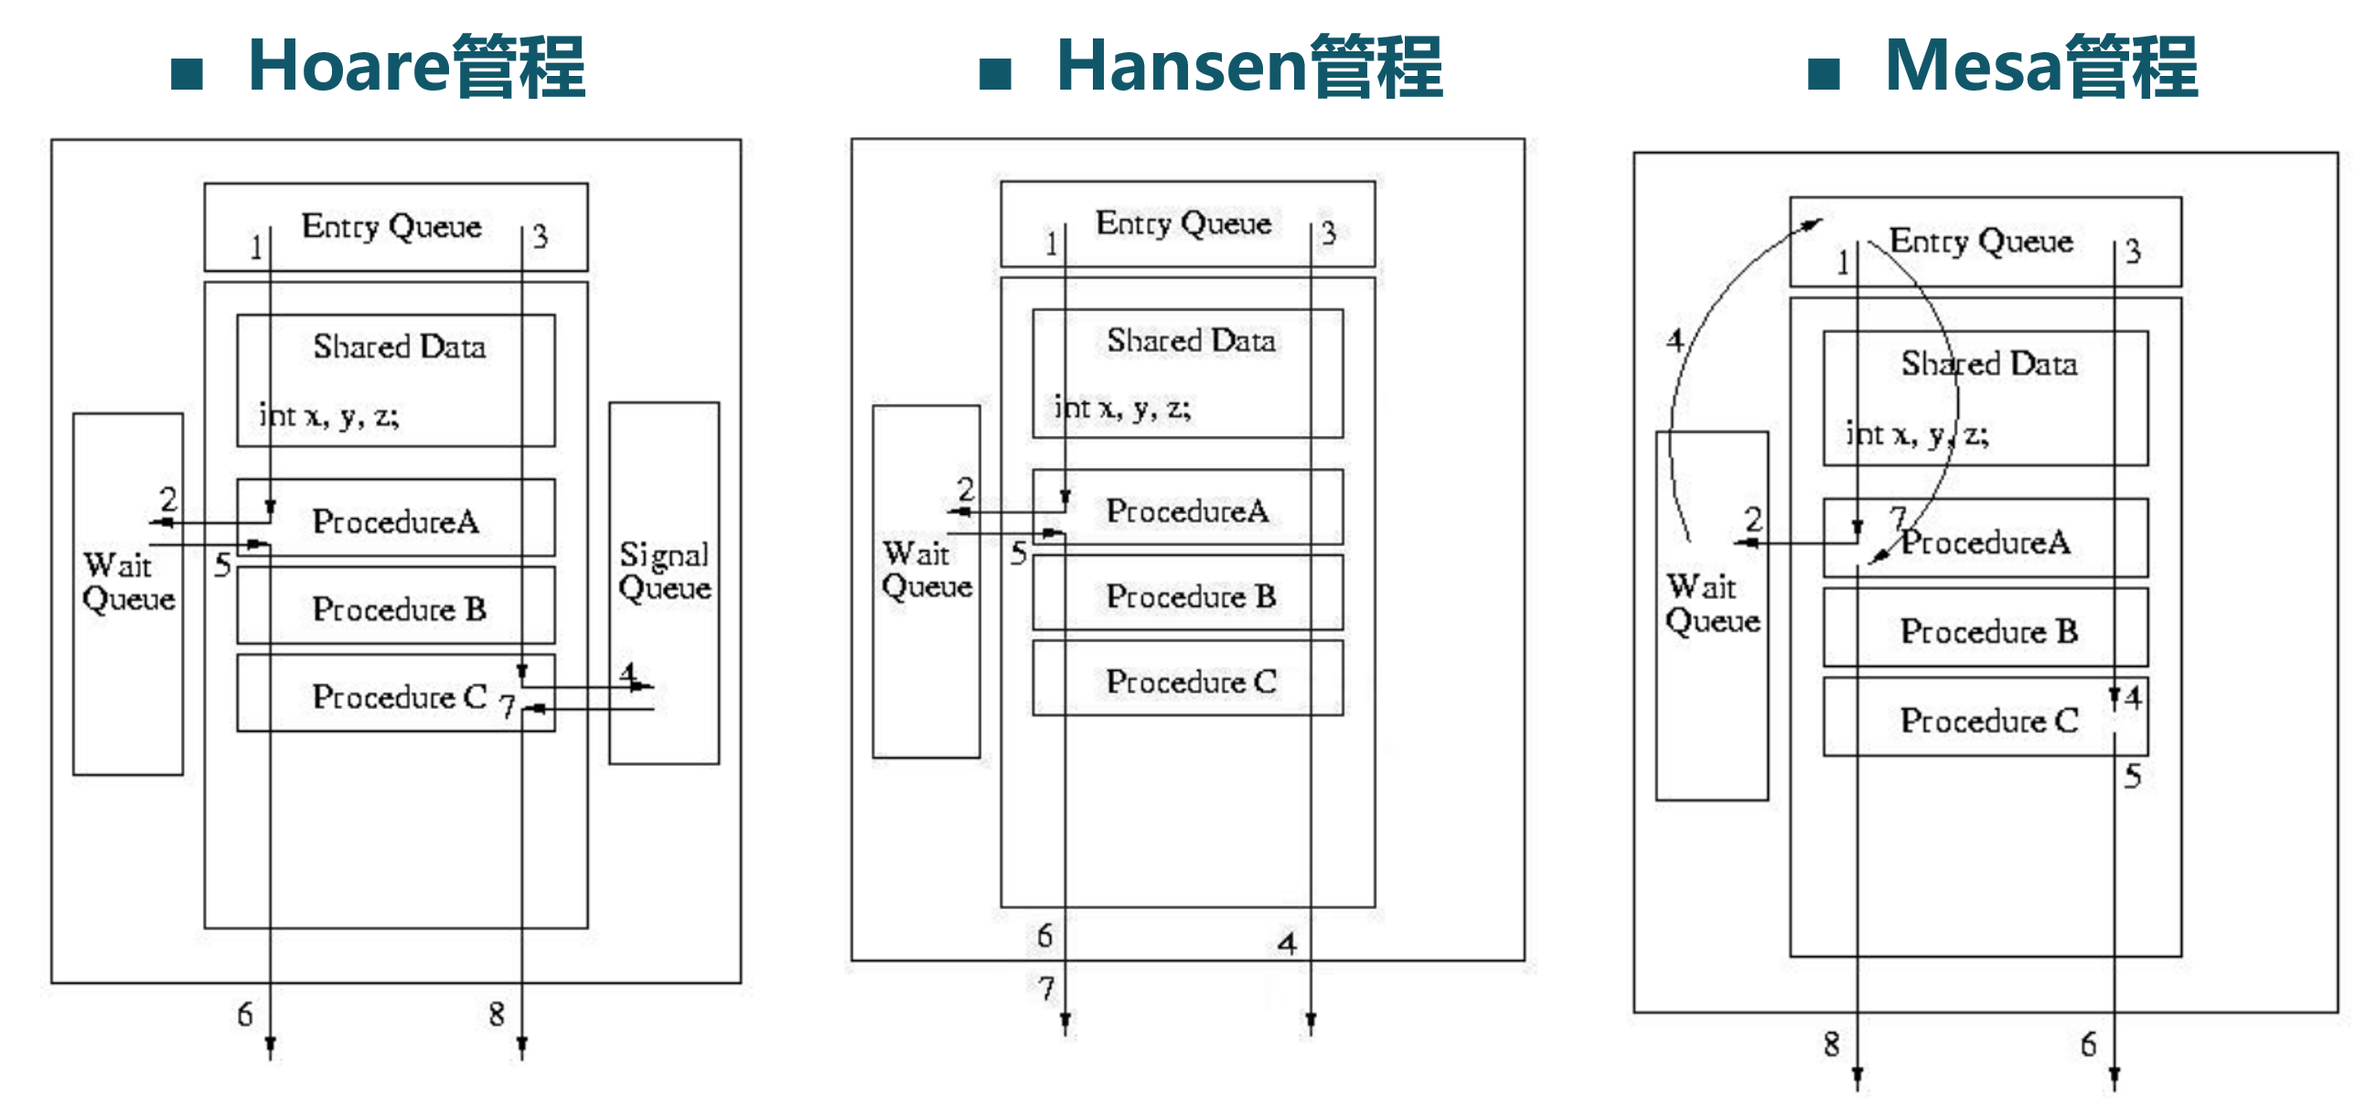
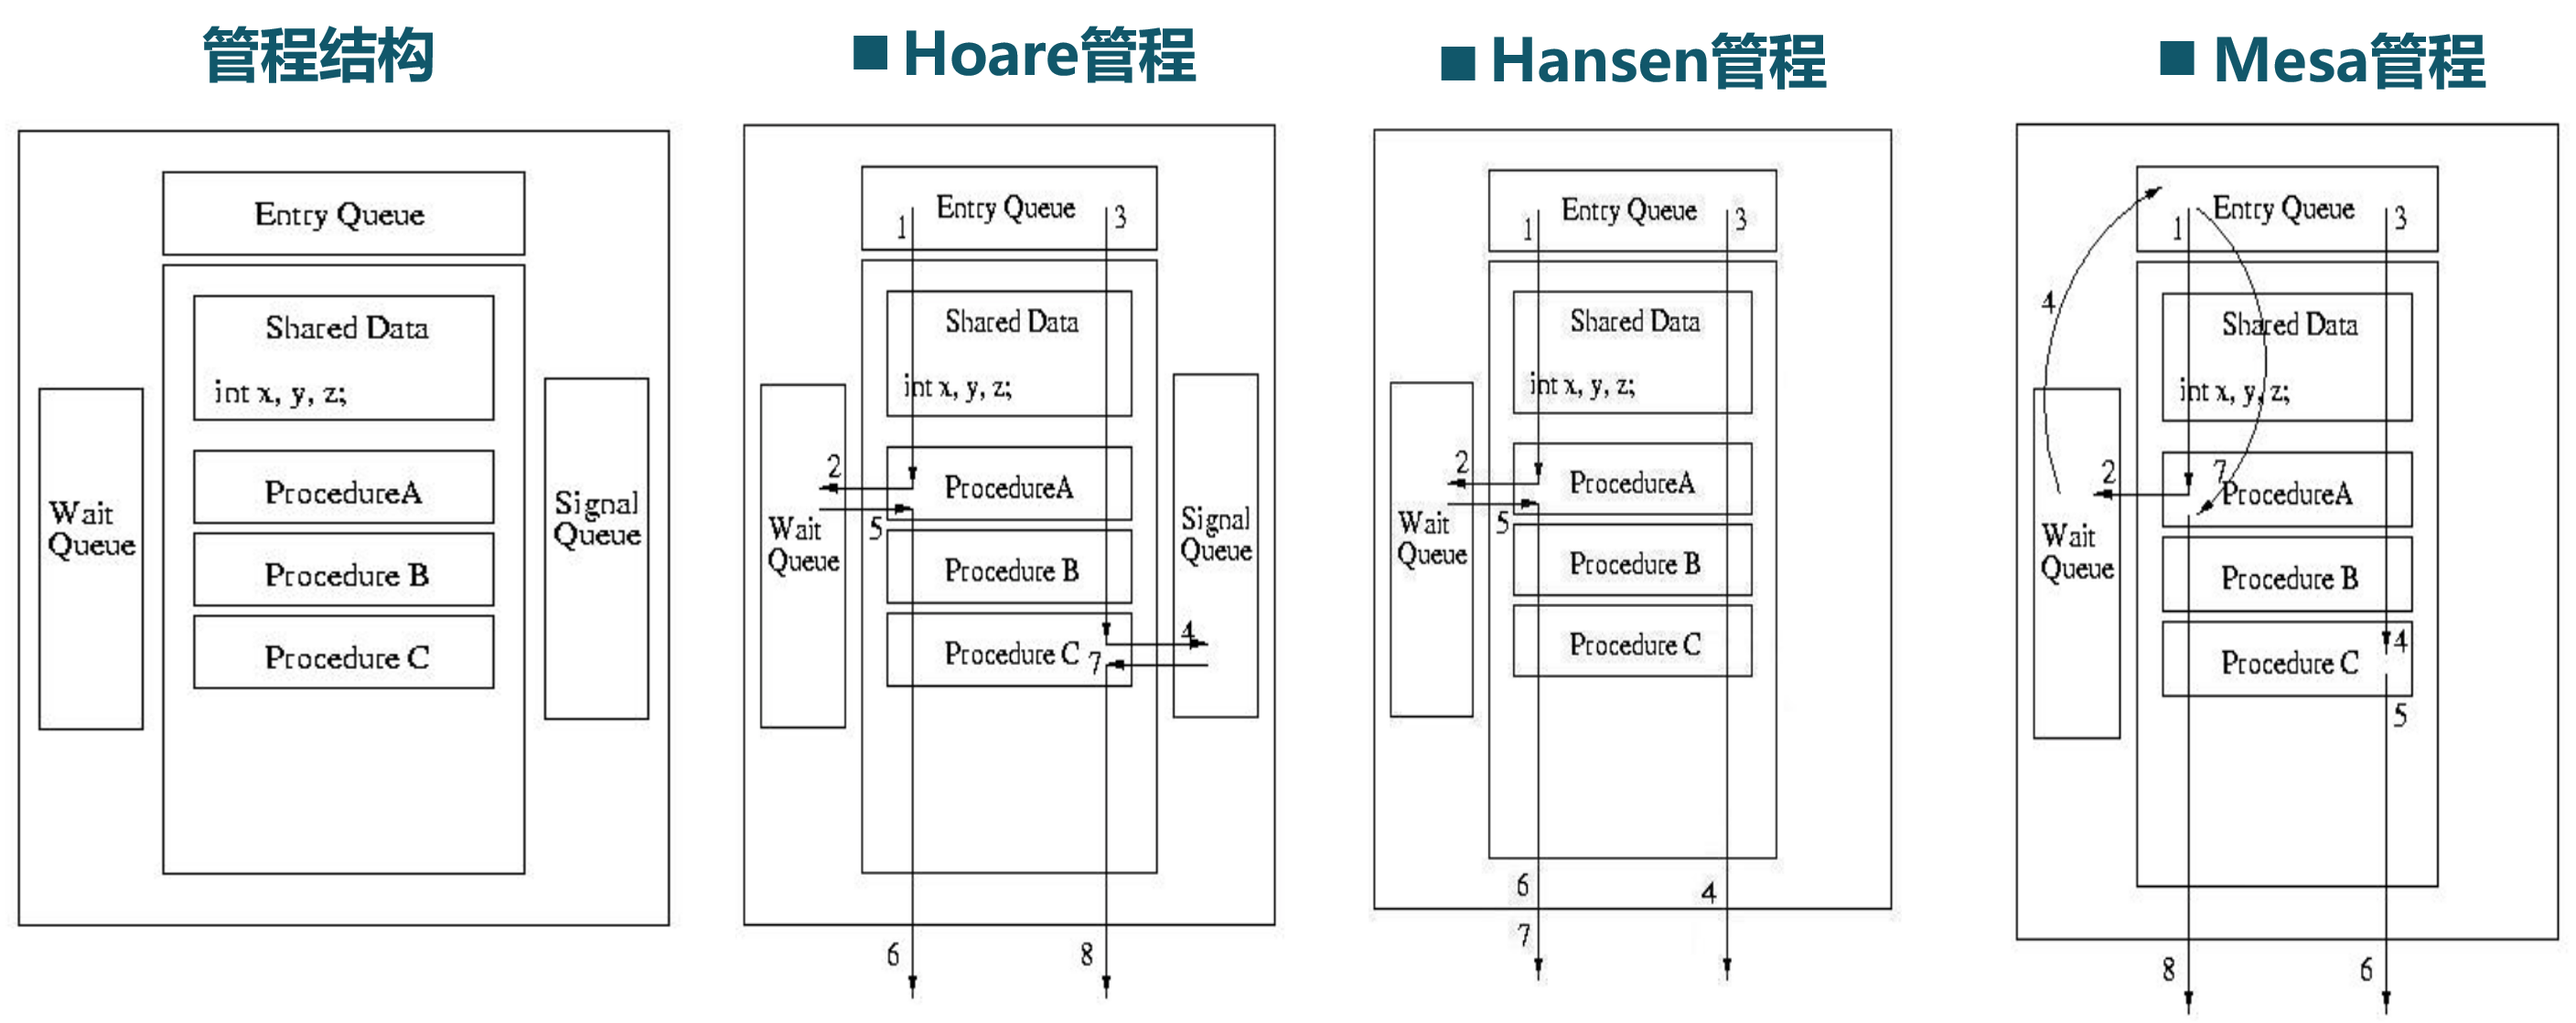
update lec12:p3

diff --git a/lec12/p3-monitor-cond.md b/lec12/p3-monitor-cond.md
@@ -164,7 +164,7 @@ https://yangzhaoyunfei.github.io/monitors/ 管程(Monitors) -->
 管程中条件变量的释放处理方式
 <!-- https://cseweb.ucsd.edu/classes/sp17/cse120-a/applications/ln/lecture8.html --> 
 <!-- https://juejin.cn/post/6925331537365843981 synchronized原理剖析 -->
-![w:1000](figs/cond-releases.png)
+![w:1200](figs/cond-releases.png)
 
 
 ---
